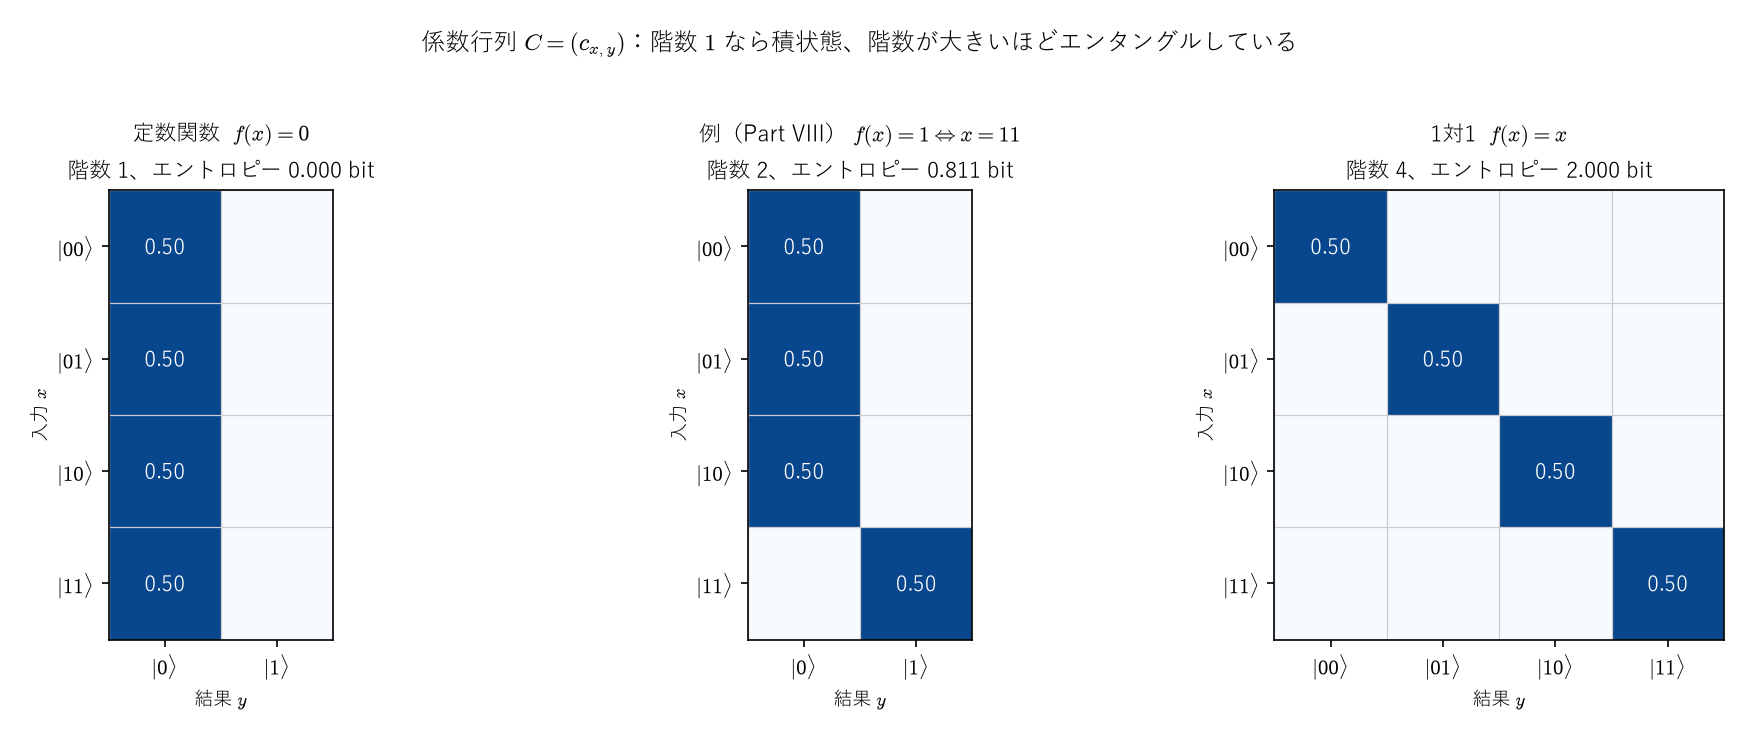
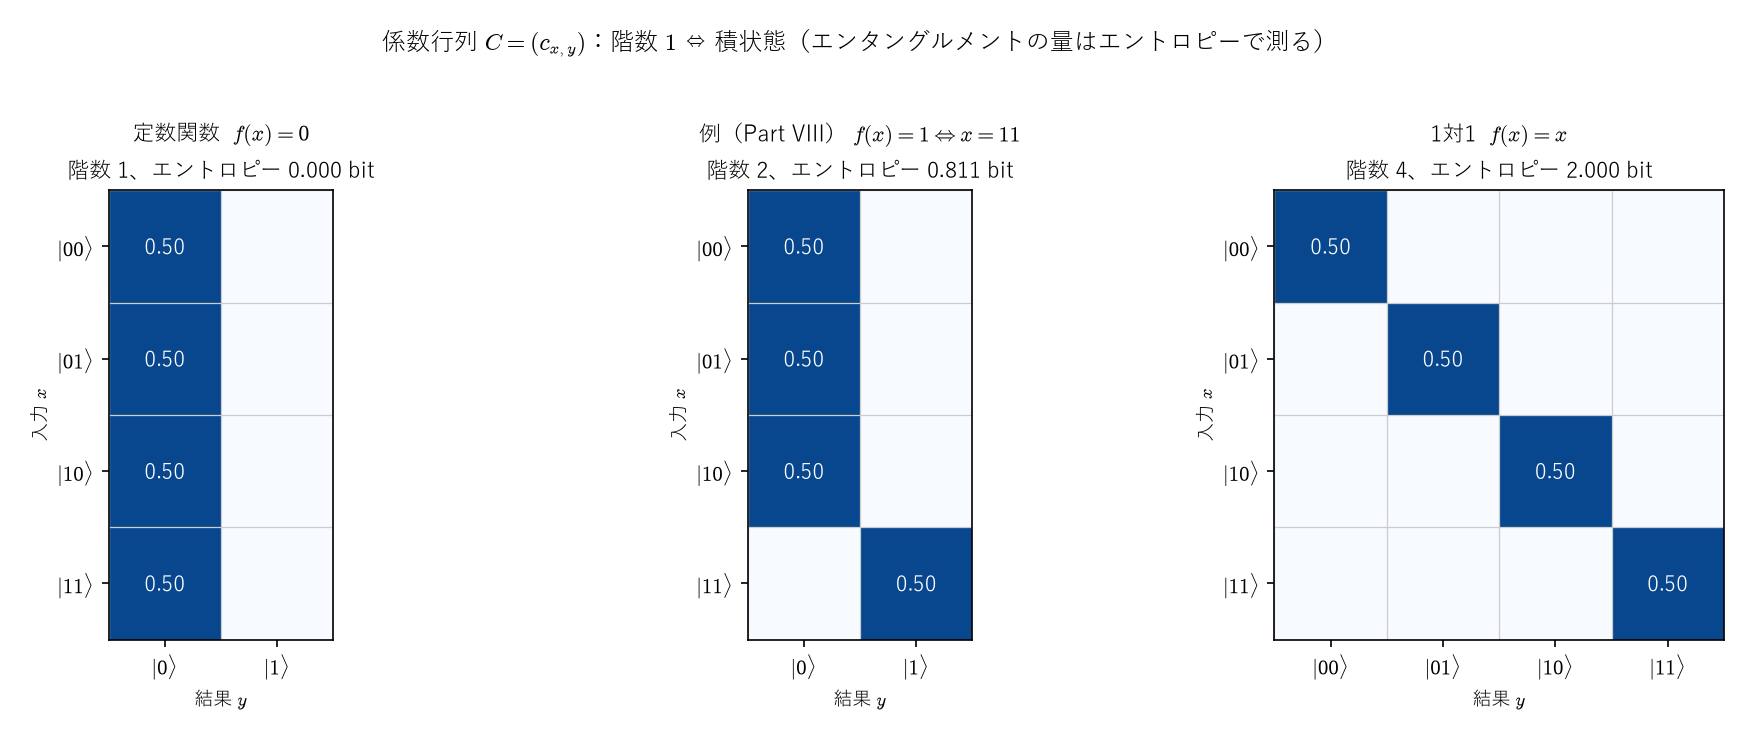
Codex 監査の指摘4件を反映（弱い測定と読み出し誤差の違い、階数とエンタングルメントの量、検算一覧の式）

Changed region(s): [[0.2156, 0.0311, 0.7393, 0.0932]]

diff --git a/experiments/measurement_projection/tests/test_measurement_projection.py b/experiments/measurement_projection/tests/test_measurement_projection.py
@@ -419,3 +419,31 @@ def test_environment_picture_gives_kraus_sum():
     rho = mp.density(rand_state(2))
     big = U @ np.kron(rho, mp.proj(0, 2)) @ U.conj().T
     assert np.allclose(mp.partial_trace(big, 2, 2, "A"), sum(k @ rho @ k.conj().T for k in K))
+
+
+def test_unsharp_measurement_differs_from_readout_error_after_the_measurement():
+    """付録A-4：弱い測定 K_0 と、射影測定＋ラベルの取り違え（確率 ε）は、結果の確率は同じだが、測定後の状態が違う"""
+    eps = 0.1
+    plus = np.array([1, 1], dtype=complex) / np.sqrt(2)
+    K0, _ = mp.unsharp_measurement_kraus(eps)
+    v = K0 @ plus
+    p0 = float(np.vdot(v, v).real)
+    post_weak = np.outer(v, v.conj()) / p0
+    # ラベル取り違えの模型：結果ラベル 0 の条件付き状態は (1-ε)|0⟩⟨0| + ε|1⟩⟨1|（|+⟩ では確率 1/2 ずつ）
+    P0, P1 = mp.proj(0, 2), mp.proj(1, 2)
+    p0_mis = (1 - eps) * np.vdot(plus, P0 @ plus).real + eps * np.vdot(plus, P1 @ plus).real
+    post_mis = ((1 - eps) * P0 @ np.outer(plus, plus.conj()) @ P0 + eps * P1 @ np.outer(plus, plus.conj()) @ P1) / p0_mis
+    assert np.isclose(p0, p0_mis)
+    assert np.allclose(post_mis, np.diag([1 - eps, eps]))
+    assert abs(post_weak[0, 1]) > 0.1 and abs(post_mis[0, 1]) < 1e-12  # 弱い測定にはコヒーレンスが残る
+    assert np.isclose(abs(post_weak[0, 1]), np.sqrt(eps * (1 - eps)))
+
+
+def test_rank_is_not_a_measure_of_entanglement():
+    """付録B-3：階数は積状態の判定。振幅が偏ると 1対1 でも階数・エントロピーは下がり、階数が大きくてもエントロピーは小さくなりうる"""
+    alpha = np.array([np.sqrt(0.9), np.sqrt(0.1), 0, 0], dtype=complex)
+    psi = mp.psi_state(lambda x: x, 2, 2, alpha)
+    C = mp.coefficient_matrix(psi, 4, 4)
+    assert np.linalg.matrix_rank(C) == 2
+    assert np.isclose(mp.entropy_bits(mp.schmidt_probabilities(psi, 4, 4)), 0.469, atol=1e-3)
+    assert mp.entropy_bits([0.999, 0.0005, 0.0005]) < mp.entropy_bits([0.5, 0.5])

diff --git a/研究ノート/08_量子コンピュータ/figures/make_measurement_projection_figures.py b/研究ノート/08_量子コンピュータ/figures/make_measurement_projection_figures.py
@@ -235,7 +235,7 @@ def mp05():
     assert [int(np.linalg.matrix_rank(mp.coefficient_matrix(mp.psi_state(f, 2, k), 4, 2**k))) for _, f, k, _, _ in cases] == [1, 2, 4]
     s_ex = mp.schmidt_probabilities(mp.psi_state(F_EX, 2, 1), 4, 2)
     assert np.allclose(sorted(s_ex), [0.25, 0.75]) and np.isclose(mp.entropy_bits(s_ex), 0.8113, atol=1e-4)
-    fig.suptitle(r"係数行列 $C=(c_{x,y})$：階数 $1$ なら積状態、階数が大きいほどエンタングルしている", fontsize=11.5, y=1.02)
+    fig.suptitle(r"係数行列 $C=(c_{x,y})$：階数 $1$ ⇔ 積状態（エンタングルメントの量はエントロピーで測る）", fontsize=11.5, y=1.02)
     fig.tight_layout()
     fig.savefig(OUT / "mp05_coefficient_matrices.png", dpi=150, bbox_inches="tight", pad_inches=0.2)
     plt.close(fig)

diff --git a/experiments/measurement_projection/README.md b/experiments/measurement_projection/README.md
@@ -1,13 +1,13 @@
 # 射影演算子による測定確率の検算
 
 > **作成** 2026-10-17　**更新** 2026-10-17
-> 研究ノート「射影演算子による測定確率の計算」（measurement_projection_born_rule.md）の、式と数値を確かめるスクリプトとテスト（37件）。Qiskit での確認を含む。
+> 研究ノート「射影演算子による測定確率の計算」（measurement_projection_born_rule.md）の、式と数値を確かめるスクリプトとテスト（39件）。Qiskit での確認を含む。
 
 ノート [measurement_projection_born_rule.md](../../研究ノート/08_量子コンピュータ/measurement_projection_born_rule.md) の本編（テンソル積の作用、ボルン則、$P(x^\ast)=\frac1N$、4候補の例）と、付録A〜C（完全な射影測定とPOVM、結果レジスタの測定とエンタングルメント、クロネッカー積の性質とQiskit の並び順）と、別ノート「[部分トレースと縮約密度行列](../../研究ノート/08_量子コンピュータ/partial_trace_reduced_density_matrix.md)」を、NumPy・SciPy・Qiskit で確かめます。
 
 ```bash
 uv run python experiments/measurement_projection/measurement_projection.py   # 値を表示する
-uv run pytest experiments/measurement_projection -q                          # 検算（37 件）
+uv run pytest experiments/measurement_projection -q                          # 検算（39 件）
 ```
 
 | ファイル | 内容 |

diff --git a/研究ノート/08_量子コンピュータ/partial_trace_reduced_density_matrix.md b/研究ノート/08_量子コンピュータ/partial_trace_reduced_density_matrix.md
@@ -448,7 +448,7 @@ $K_m$ の組を、**クラウス表現**と呼びます。本編の付録A-4 の
 | Part IV §1 | 例の $\rho_A$、固有値 $\frac34,\frac14$、固有ベクトル、$\rho_B=\operatorname{diag}(\frac34,\frac14)$、(III-4) の分解 | `test_reduced_state_of_the_example` |
 | Part IV §2 | 定数関数：純粋、1対1：$\frac14I_4$（純度 $\frac14$） | `test_constant_and_injective_functions` |
 | Part V §1、§2 | $p_0=\frac1N\sum\rho_{xx'}$：$1$、$\frac58$、$\frac14$（全体に $H^{\otimes2}\otimes I$ をかけた直接計算とも一致） | `test_interference_after_hadamard_depends_on_the_result_register` |
-| Part V §3 | コヒーレンス $=\frac12|\cos\theta|$（$\theta$ を6通り）、$p_0=\frac12(1+\cos\theta)$、$\theta=\frac\pi2$ で $\rho_A=\frac12I$ | `test_visibility_and_environment_overlap` |
+| Part V §3 | $|\rho_{01}|=\frac12|\cos\theta|$（コヒーレンス $2|\rho_{01}|=|\cos\theta|$。$\theta$ を6通り）、$p_0=\frac12(1+\cos\theta)$、$\theta=\frac\pi2$ で $\rho_A=\frac12I$ | `test_visibility_and_environment_overlap` |
 | Part VI | $\operatorname{Tr}_E[U(\rho\otimes|0\rangle\langle0|)U^\dagger]=\sum K_m\rho K_m^\dagger$ | `test_environment_picture_gives_kraus_sum` |
 | 図 | mp07、mp08 の各値を本文の式と `assert` で照合 | `figures/make_measurement_projection_figures.py` |
 
